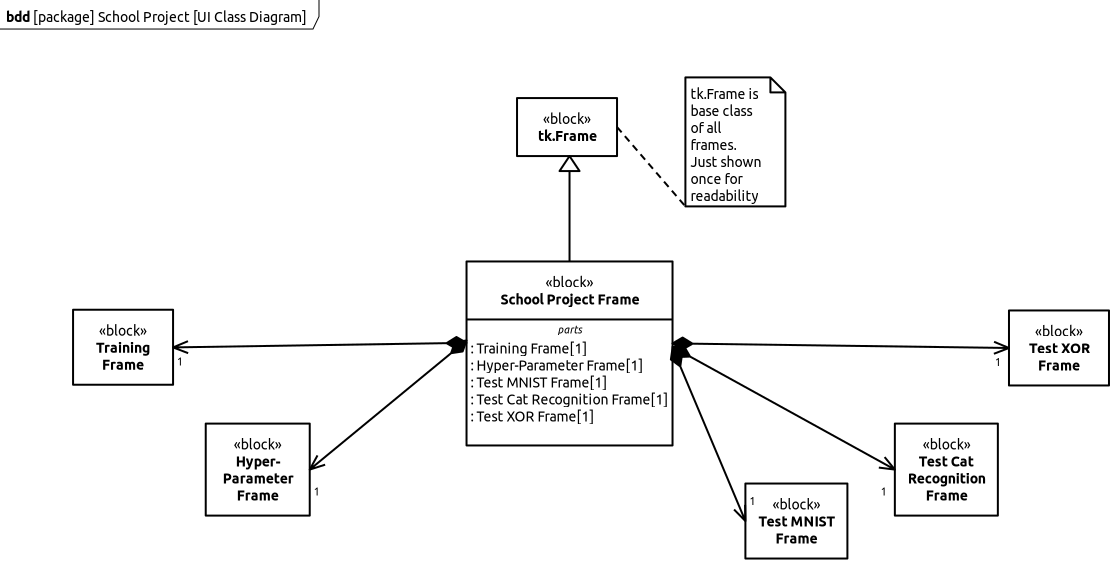
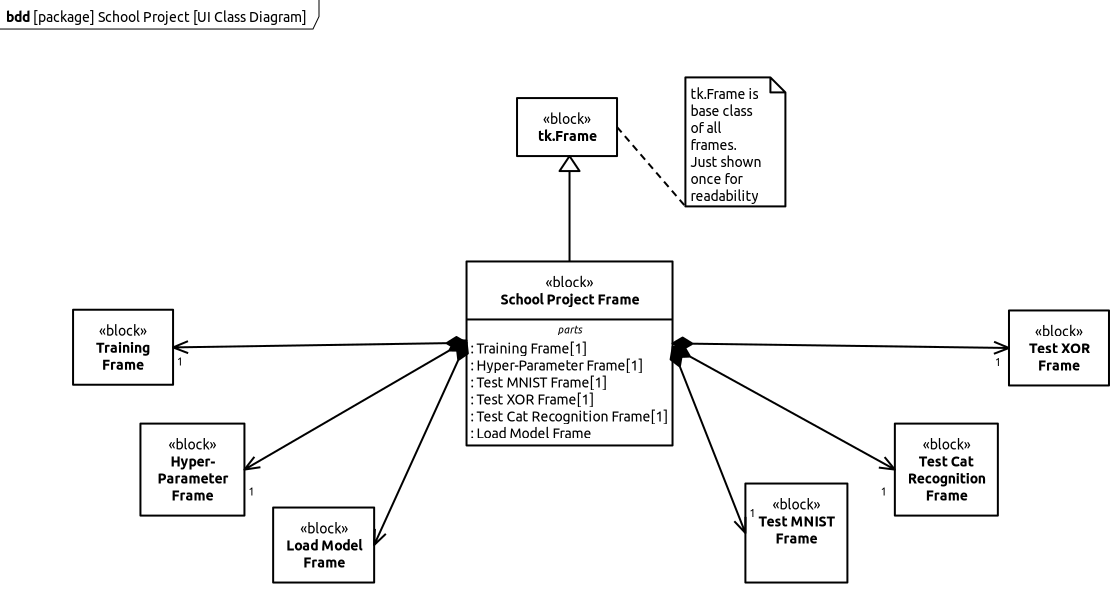
Update report's UI class diagram to include LoadModelFrame

diff --git a/project-report/src/latex/design.tex b/project-report/src/latex/design.tex
@@ -75,7 +75,7 @@ I will use the following file structures to store necessary data for the program
     \item A JSON file for storing the default hyper-parameters for creating a new model for each dataset.
     \item I will store the image dataset files in a 'datasets' directory. The dataset files will either be a compressed archive file (such as .pkl.gz files) or of the 
           Hierarchical Data Format (such as .h5) for storing large datasets with fast retrieval.
-    \item I will save a pretrained model TODO
+    \item I will save a pretrained model
 \end{itemize}
 
 \subsection{Database Design}
